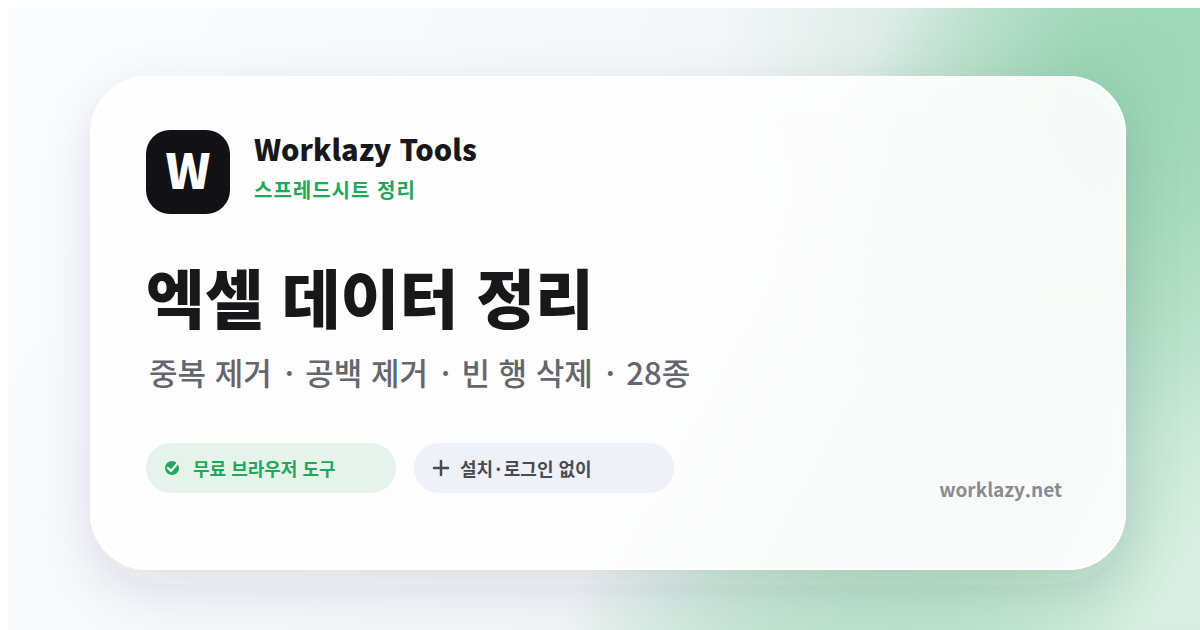
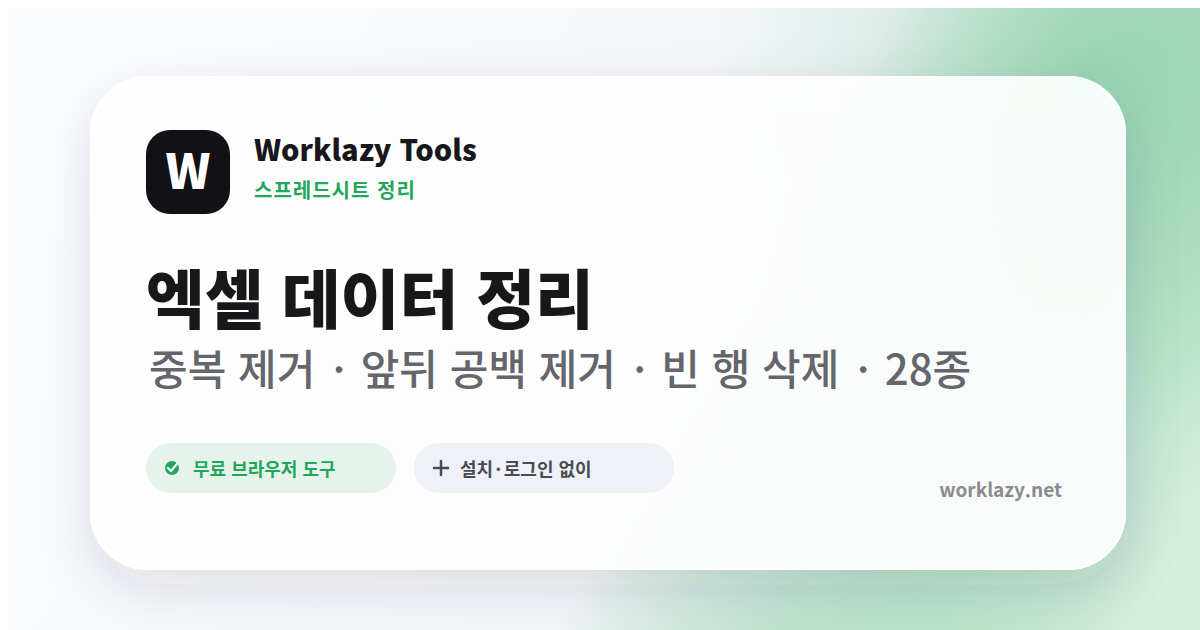
muse-seo: ASTRA-SEO-IMPL I1~I5 보완(계약 체인·스모크·문구·공개판정·도장FAQ)

Changed region(s): [[0.1233, 0.5429, 0.7092, 0.6333], [0.74, 0.5429, 0.8017, 0.6333]]

diff --git a/src/app/seo.ts b/src/app/seo.ts
@@ -137,7 +137,7 @@ export const seoByPath: Record<string, SeoDefinition> = {
     },
   },
   "/tools/excel-cleaner": {
-    title: "엑셀 데이터 정리 - 중복 제거·공백 제거·빈 행 삭제 | Worklazy Tools",
+    title: "엑셀 데이터 정리 - 중복 제거·앞뒤 공백 제거·빈 행 삭제 | Worklazy Tools",
     description: "엑셀(Excel)·CSV 파일에 공백 제거, 빈 행 삭제, 중복 정리 등 28종 규칙을 순서대로 적용하여 데이터를 깔끔하게 정리하세요.",
     application: {
       name: "엑셀 정리",
@@ -217,7 +217,7 @@ export const seoByPath: Record<string, SeoDefinition> = {
   },
   "/tools/pdf-editor/split": {
     title: "PDF 분할·페이지 추출 - 필요한 구간 저장 | Worklazy Tools",
-    description: "PDF를 필요한 페이지 범위로 나누거나(자르기) 일부만 추출해 저장하세요.",
+    description: "PDF를 페이지 범위별로 나누거나 필요한 페이지만 추출해 저장하세요.",
     application: { name: "PDF 분할", featureList: ["나누기 위치 선택", "범위별 저장", "최초 전체 범위", "브라우저 처리"] },
   },
   "/tools/pdf-editor/delete": {
@@ -382,7 +382,7 @@ const englishToolTitles: Record<keyof typeof enTools.items, string> = {
   "document-redactor": "Redact PDF & Images - Blackout Private Info | Worklazy Tools",
   "excel-merger": "Excel Merger - Combine Files & Merge Sheets | Worklazy Tools",
   "excel-compare": "Compare Excel Files - Find Differences in Values & Formulas | Worklazy Tools",
-  "excel-cleaner": "Excel Data Cleaner - Remove Duplicates, Spaces & Blank Rows | Worklazy Tools",
+  "excel-cleaner": "Excel Data Cleaner - Remove Duplicates, Trim Spaces & Delete Blank Rows | Worklazy Tools",
   "document-generator": "Batch Word Document Generator - Excel to Word Mail Merge | Worklazy Tools",
   "pdf-editor": "PDF Editor - Reorder, Merge, Split & Convert | Worklazy Tools",
   "document-markdown": "Document to Markdown - MarkItDown | Worklazy Tools",
@@ -414,7 +414,7 @@ const englishPageSeo: Record<string, SeoDefinition> = {
   "/tools": { title: "All Free Browser Tools | Worklazy Tools", description: "Browse free tools for documents, media, text, data, work planning, Korean payroll, privacy and sharing." },
   "/tools/excel-merger": { title: "Excel Merger | Combine XLSX, XLS & CSV Files", description: "Combine XLSX, XLS, XLSB, XLSM and CSV files into one XLSX with separate formula and formatting controls for XLSX and XLS input.", application: { name: "Excel Merger", featureList: ["XLSX, XLS, XLSB, XLSM and CSV merging", "Separate-sheet, vertical and horizontal layouts", "Empty-area cleanup", "Independent XLSX formula and formatting preservation", "Independent XLS formula and formatting preservation", "Encrypted input and output"] } },
   "/tools/excel-compare": { title: "Excel Compare | Compare XLSX, XLS, XLSB & CSV Files", description: "Check a suggested header, compare Excel and CSV pairs by position, keys or reconciliation rules, and download a nine-sheet XLSX report.", application: { name: "Excel Compare", featureList: ["XLSX, XLSM, XLS, XLSB, SpreadsheetML and CSV", "Suggested header selection and manual changes", "Position, key and reconciliation matching", "Grouped left and right rows for duplicate keys", "Formula and cached-value comparison", "XLSX and XLSM formatting comparison", "Nine-sheet report per pair", "ZIP for multiple successful pairs"] } },
-  "/tools/excel-cleaner": { title: "Excel Data Cleaner | Clean XLSX, XLS & CSV Files", description: "Apply 28 ordered structure, text, row-filter, and value-conversion rules to Excel and CSV files, then download cleaned XLSX, CSV, reports, and ZIP results.", application: { name: "Excel Data Cleaner", featureList: ["Multiple Excel and CSV files", "13 structure rules", "7 text rules", "3 row-filter rules", "5 value-conversion rules", "Formula-reference updates and safe fallback", "XLSX, CSV, and ZIP results"] } },
+  "/tools/excel-cleaner": { title: "Excel Data Cleaner - Remove Duplicates, Trim Spaces & Delete Blank Rows | Worklazy Tools", description: "Apply 28 ordered structure, text, row-filter, and value-conversion rules to Excel and CSV files, then download cleaned XLSX, CSV, reports, and ZIP results.", application: { name: "Excel Data Cleaner", featureList: ["Multiple Excel and CSV files", "13 structure rules", "7 text rules", "3 row-filter rules", "5 value-conversion rules", "Formula-reference updates and safe fallback", "XLSX, CSV, and ZIP results"] } },
   "/tools/document-generator": { title: "Word Mail Merge | Template-based Bulk Document Generator", description: "Replace variables in a Word template with Excel data to automatically generate hundreds of individual documents at once, just like Mail Merge.", application: { name: "Template-based Bulk Document Generator", featureList: ["Word Mail Merge", "DOCX template variables", "Multiple Excel and CSV files", "Sheet and header-row selection", "Sample DOCX", "Individual files, ZIP and XLSX reports"] } },
   "/tools/pdf-compare": { title: "PDF Compare | Visual and Extracted Text Differences", description: "Compare before-and-after PDF pairs by page, inspect rendered pixel and extracted-text differences, and download XLSX or ZIP reports in your browser.", application: { name: "PDF Compare", featureList: ["Multiple PDF pairs", "Page-number and manual mapping", "Rendered pixel comparison", "Extracted text comparison", "Added and deleted pages", "XLSX and ZIP reports"] } },
   "/tools/qr-studio/bulk": { title: "Bulk QR Code Generator - Excel & CSV | Worklazy Tools", description: "Create a massive number of QR codes all at once using data lists from Excel or CSV files.", application: { name: "Bulk QR Generator", featureList: ["Excel and CSV row mapping", "Seven standard payload types", "Header templates", "Logo and transparent PNG", "Read-back verification", "Incremental ZIP", "A4 and Letter label PDF", "XLSX manifest and failures"] } },
@@ -432,7 +432,7 @@ const englishPageSeo: Record<string, SeoDefinition> = {
   "/tools/pdf-editor/rotate": { title: "Rotate PDF - Change Page Orientation | Worklazy Tools", description: "Select PDF pages that are facing the wrong way, rotate them to the correct orientation, and save the file.", application: { name: "Rotate PDF", featureList: ["Select pages to rotate", "Correct orientation", "First-task guidance", "No automatic rotation"] } },
   "/tools/pdf-editor/ocr": { title: "Scanned PDF OCR - Make PDFs Searchable | Worklazy Tools", description: "Recognize Korean and English text in scanned PDFs and save a PDF you can search and copy from. Existing text is kept.", application: { name: "Scanned PDF OCR", featureList: ["Recognize scanned pages as needed", "Korean and English", "Searchable PDF", "Browser processing"] } },
   "/tools/image-studio/resize": { title: "Resize Image - Change Photo Pixels & Ratio | Worklazy Tools", description: "Adjust your photos to exact pixel dimensions while maintaining the original aspect ratio.", application: { name: "Resize Image", featureList: ["Exact pixel size", "Keep aspect ratio", "Size panel opens directly", "Browser processing"] } },
-  "/tools/image-studio/mosaic": { title: "Image Mosaic - Blur Specific Areas | Worklazy Tools", description: "Select and apply a mosaic blur to personal information or sensitive areas you want to hide in a photo.", application: { name: "Image Mosaic", featureList: ["Selected-area mosaic", "Effect panel opens directly", "Browser processing"] } },
+  "/tools/image-studio/mosaic": { title: "Image Mosaic - Blur Specific Areas | Worklazy Tools", description: "Pick areas such as faces or license plates and apply a mosaic or blur.", application: { name: "Image Mosaic", featureList: ["Selected-area mosaic", "Effect panel opens directly", "Browser processing"] } },
   "/tools/image-studio/watermark": { title: "Add Image Watermark - Text & Copyright | Worklazy Tools", description: "Easily insert text watermarks into your photos to indicate copyright or source information.", application: { name: "Image Watermark", featureList: ["Text watermark", "Text panel opens directly", "No automatic insertion", "Browser processing"] } },
   "/tools/video-studio/trim": { title: "Trim Video - Save Specific Sections as MP4 | Worklazy Tools", description: "Select only the specific sections you need from a video file, cut out the unwanted parts, and save it as an MP4.", application: { name: "Trim Video", featureList: ["Section selection", "MP4 output", "Section guidance", "Browser processing"] } },
   "/tools/video-studio/merge": { title: "Merge Video - Combine Multiple Videos | Worklazy Tools", description: "Arrange several video files in order and merge them into a single MP4 video file.", application: { name: "Merge Video", featureList: ["Combine multiple videos", "Group order", "MP4 output", "Browser processing"] } },

diff --git a/tests/unit/seo.test.ts b/tests/unit/seo.test.ts
@@ -27,7 +27,7 @@ test("tool metadata keeps a distinct identity in Korean and English", () => {
       "/tools/document-compare": "워드·한글 문서 비교 - 수정 전후 차이 확인 | Worklazy Tools",
       "/tools/pdf-compare": "PDF 파일 비교 - 화면·텍스트 변경사항 확인 | Worklazy Tools",
       "/tools/excel-compare": "엑셀 파일 비교 - 값·수식·기준 항목별 차이 | Worklazy Tools",
-      "/tools/excel-cleaner": "엑셀 데이터 정리 - 중복 제거·공백 제거·빈 행 삭제 | Worklazy Tools",
+      "/tools/excel-cleaner": "엑셀 데이터 정리 - 중복 제거·앞뒤 공백 제거·빈 행 삭제 | Worklazy Tools",
       "/tools/document-generator": "워드 문서 일괄 생성 - 엑셀 명단으로 메일머지 | Worklazy Tools",
       "/tools/office-editor": "워드·엑셀·PPT 온라인 편집 - 설치 없이 열기·저장 | Worklazy Tools",
       "/tools/text-merger": "텍스트 파일 합치기 - TXT·메모 순서대로 병합 | Worklazy Tools",
@@ -43,7 +43,7 @@ test("tool metadata keeps a distinct identity in Korean and English", () => {
       "/tools/document-compare": "Compare Word & HWP Documents - Track Changes | Worklazy Tools",
       "/tools/pdf-compare": "PDF Compare | Visual and Extracted Text Differences",
       "/tools/excel-compare": "Excel Compare | Compare XLSX, XLS, XLSB & CSV Files",
-      "/tools/excel-cleaner": "Excel Data Cleaner | Clean XLSX, XLS & CSV Files",
+      "/tools/excel-cleaner": "Excel Data Cleaner - Remove Duplicates, Trim Spaces & Delete Blank Rows | Worklazy Tools",
       "/tools/document-generator": "Word Mail Merge | Template-based Bulk Document Generator",
       "/tools/office-editor": "Online Office Editor - Word, Excel & PowerPoint | Worklazy Tools",
       "/tools/text-merger": "Merge Text Files - Combine TXT & Notes | Worklazy Tools",
@@ -143,6 +143,17 @@ test("moved image conversion URLs canonicalize to the converter and expose local
       assert.ok(definition.application);
       assert.ok(definition.faq?.length);
       assert.equal(definition.application.name, getSeoDefinition(language, `/tools/pdf-editor/${mode}`).application?.name);
+    }
+  }
+});
+
+test("alias image-conversion FAQs equal the representative Q/A content (S5 regression)", () => {
+  for (const mode of ["image-to-pdf", "pdf-to-image"] as const) {
+    for (const language of ["ko", "en"] as const) {
+      const representative = getSeoDefinition(language, `/tools/pdf-converter/${mode}`).faq ?? [];
+      const alias = getSeoDefinition(language, `/tools/pdf-editor/${mode}`).faq ?? [];
+      assert.ok(representative.length >= 3, `${language} ${mode} needs 3+ FAQs`);
+      assert.deepEqual(alias.map((item) => [item.question, item.answer]), representative.map((item) => [item.question, item.answer]));
     }
   }
 });
